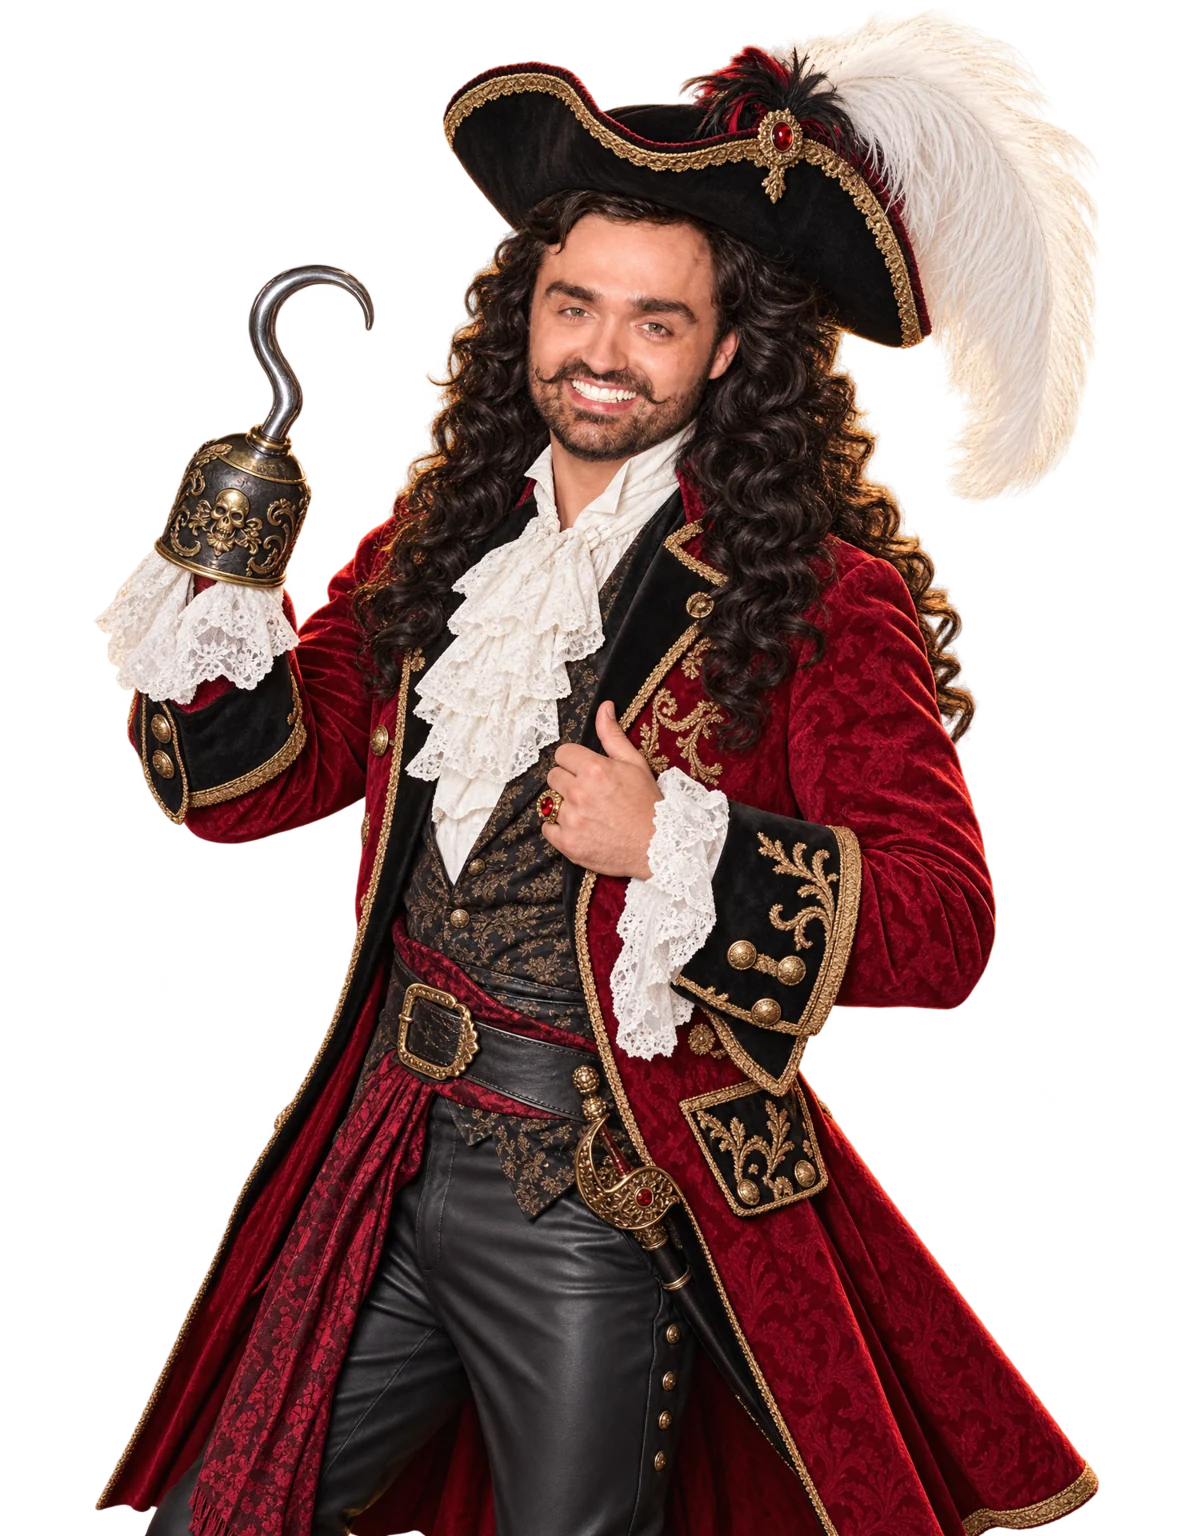
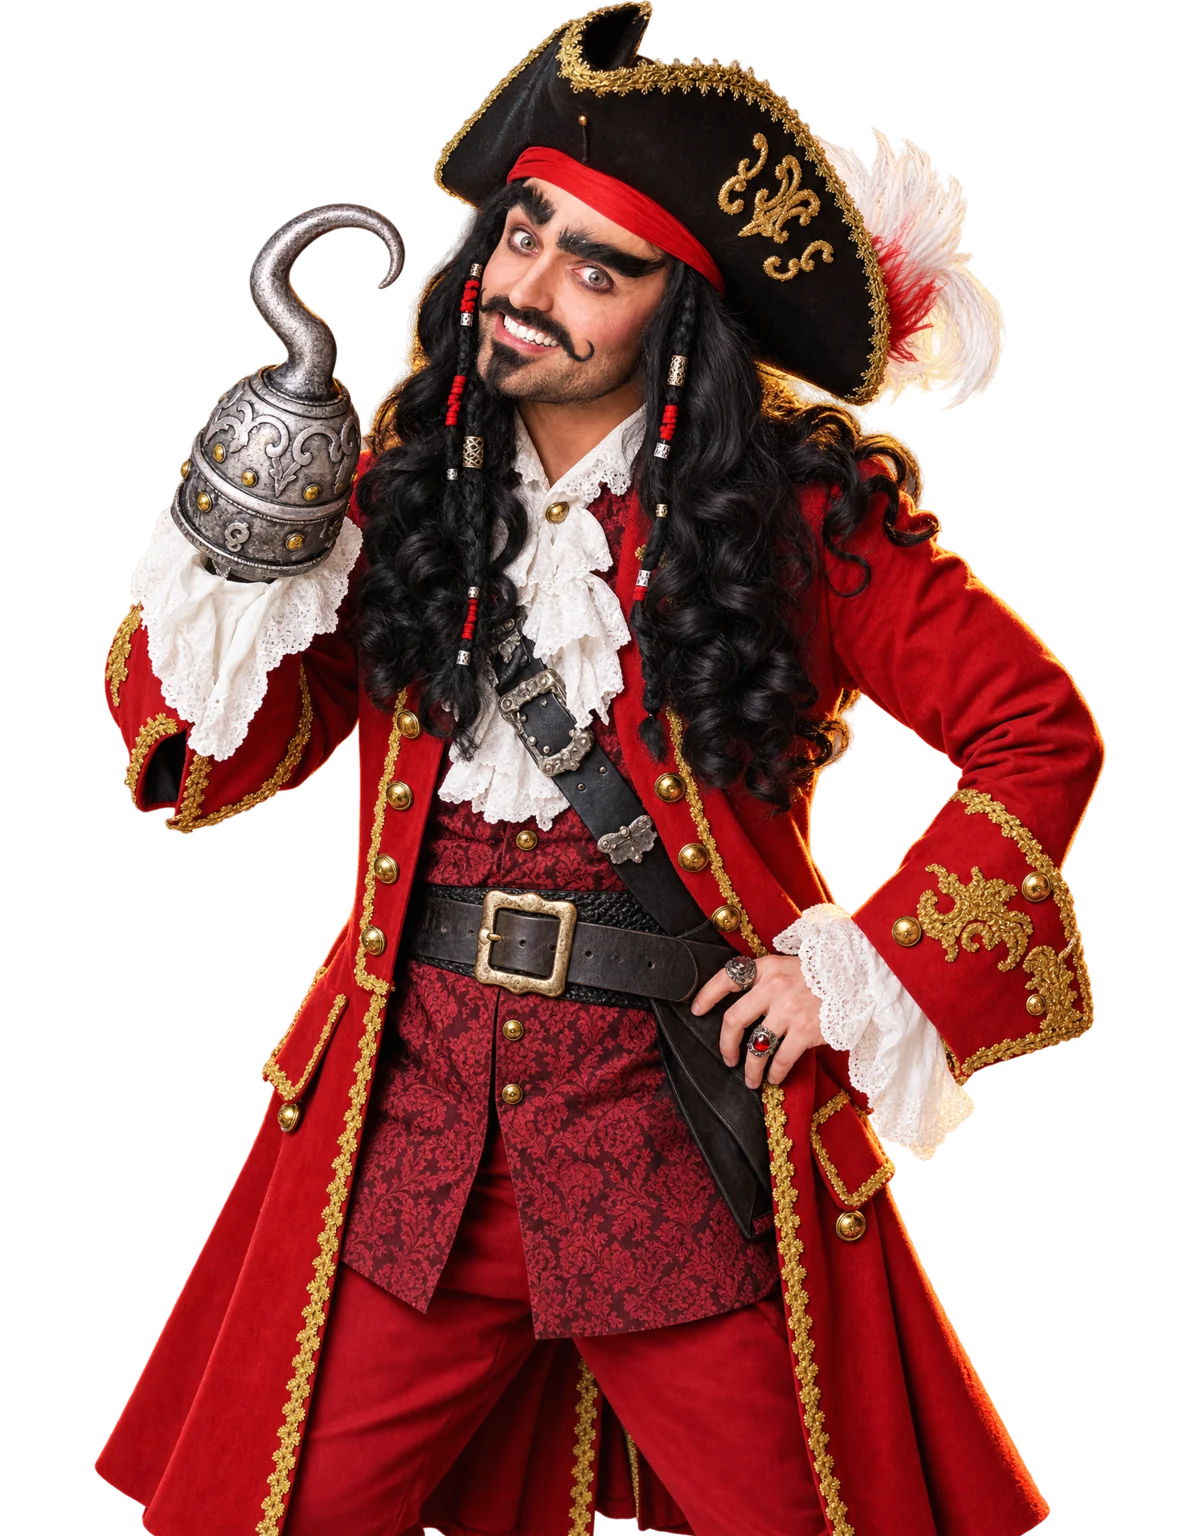
Hero : 8 lames (Grease ajouté), vrai Capitaine Crochet, base en 2 versions à comparer
- Base de l'éventail : ?base=bandeau (défaut, bandeau noir « Le couteau suisse de la scène »)
  ou ?base=couteau (manche de luxe cramoisi et or avec l'inscription gravée)
- Capitaine Crochet refait d'après les vraies photos de scène (tricorne, bandana, tresses, crochet ciselé)
- Rockeur façon Grease ajouté : 8 personnages, Dominic reste le pivot
- « Monsieur Loyal » devient « Maître de cirque »
- Cache noir sous la base : les lames inclinées ne dépassent plus

diff --git a/index.html b/index.html
@@ -154,9 +154,9 @@
         </nav>
     </header>
 
-    <section class="cam-hero">
+    <section class="cam-hero" data-base="bandeau">
         <div class="cam-copy">
-            <p class="cam-kicker">Le couteau suisse de la scène</p>
+            <p class="cam-kicker">L'artiste caméléon</p>
             <h1 class="cam-name"><span>Dominic</span><span>St&#8209;Laurent</span></h1>
             <p class="cam-role">Ce soir : <span class="cam-role-word" aria-live="polite"><span>Animateur</span></span></p>
             <p class="cam-desc">Animateur, chanteur, imitateur, DJ : tout est là! Une préparation chirurgicale, des performances qui décoiffent, et cette touche personnalisée qui fait dire «&nbsp;Comment il savait ça?!&nbsp;»</p>
@@ -168,9 +168,10 @@
                 <span class="cam-hint">Survolez ou touchez un personnage</span>
                 <ol class="cam-dots">
                     <li><button type="button" aria-pressed="false" aria-label="Voir : Capitaine Crochet"></button></li>
-                    <li><button type="button" aria-pressed="false" aria-label="Voir : Monsieur Loyal"></button></li>
+                    <li><button type="button" aria-pressed="false" aria-label="Voir : Maître de cirque"></button></li>
                     <li><button type="button" aria-pressed="false" aria-label="Voir : Crooner"></button></li>
                     <li><button type="button" aria-pressed="true" aria-label="Voir : Animateur"></button></li>
+                    <li><button type="button" aria-pressed="false" aria-label="Voir : Rockeur"></button></li>
                     <li><button type="button" aria-pressed="false" aria-label="Voir : DJ"></button></li>
                     <li><button type="button" aria-pressed="false" aria-label="Voir : Roi du disco"></button></li>
                     <li><button type="button" aria-pressed="false" aria-label="Voir : Personnage loufoque"></button></li>
@@ -178,30 +179,17 @@
             </div>
         </div>
         <div class="cam-stage">
-            <img class="cam-fig" style="--k:-3;--d:3;--o:0;--side:-1" data-role="Capitaine Crochet" width="1200" height="1536" src="images/hero/pirate.webp" alt="Dominic en Capitaine Crochet, crochet levé" draggable="false">
-            <img class="cam-fig" style="--k:-2;--d:2;--o:1;--side:-1" data-role="Monsieur Loyal" width="1200" height="1536" src="images/hero/cirque.webp" alt="Dominic en maître de piste maquillé, redingote rouge et haut-de-forme" draggable="false">
+            <img class="cam-fig" style="--k:-3;--d:3;--o:0;--side:-1" data-role="Capitaine Crochet" width="1200" height="1536" src="images/hero/pirate.webp" alt="Dominic en Capitaine Crochet" draggable="false">
+            <img class="cam-fig" style="--k:-2;--d:2;--o:1;--side:-1" data-role="Maître de cirque" width="1200" height="1536" src="images/hero/cirque.webp" alt="Dominic en maître de cirque maquillé, redingote rouge et haut-de-forme" draggable="false">
             <img class="cam-fig" style="--k:-1;--d:1;--o:2;--side:-1" data-role="Crooner" width="1200" height="1536" src="images/hero/crooner.webp" alt="Dominic en crooner, foulard blanc et micro rétro" draggable="false">
             <img class="cam-fig is-active" style="--k:0;--d:0;--o:3;--side:-1" data-role="Animateur" width="1200" height="1536" src="images/hero/dominic.webp" alt="Dominic St-Laurent, veston bourgogne, micro en main" fetchpriority="high" draggable="false">
-            <img class="cam-fig" style="--k:1;--d:1;--o:4;--side:1" data-role="DJ" width="1200" height="1536" src="images/hero/dj.webp" alt="Dominic en DJ, écouteurs et lunettes fumées" draggable="false">
-            <img class="cam-fig" style="--k:2;--d:2;--o:5;--side:1" data-role="Roi du disco" width="1200" height="1536" src="images/hero/disco.webp" alt="Dominic en chemise dorée disco" draggable="false">
-            <img class="cam-fig" style="--k:3;--d:3;--o:6;--side:1" data-role="Personnage loufoque" width="1200" height="1536" src="images/hero/loufoque.webp" alt="Dominic en personnage loufoque, combinaison argentée rétro" draggable="false">
-            <!-- Le manche : « le couteau suisse de la scène ». Les personnages en sont les lames. -->
-            <svg class="cam-knife" viewBox="0 0 460 100" aria-hidden="true" focusable="false">
-                <defs>
-                    <linearGradient id="kRed" x1="0" y1="0" x2="0" y2="1"><stop offset="0" stop-color="#e2233f"/><stop offset=".55" stop-color="#b5122b"/><stop offset="1" stop-color="#7d0a1c"/></linearGradient>
-                    <linearGradient id="kSteel" x1="0" y1="0" x2="0" y2="1"><stop offset="0" stop-color="#f1f1f1"/><stop offset="1" stop-color="#8c8f94"/></linearGradient>
-                    <radialGradient id="kBrass" cx=".35" cy=".3" r=".8"><stop offset="0" stop-color="#fde68a"/><stop offset="1" stop-color="#a97f1f"/></radialGradient>
-                </defs>
-                <circle cx="18" cy="50" r="13" fill="none" stroke="url(#kSteel)" stroke-width="4"/>
-                <rect x="26" y="6" width="420" height="88" rx="44" fill="url(#kSteel)"/>
-                <rect x="30" y="12" width="412" height="80" rx="40" fill="url(#kRed)"/>
-                <path d="M70 22 H402 a30 30 0 0 1 22 10 H48 a30 30 0 0 1 22 -10z" fill="#fff" opacity=".22"/>
-                <circle cx="72" cy="52" r="7" fill="url(#kBrass)"/><circle cx="400" cy="52" r="7" fill="url(#kBrass)"/>
-                <circle cx="236" cy="52" r="11" fill="url(#kBrass)" stroke="#5c430c" stroke-width="1.5"/>
-                <path d="M120 33 h56 v22 c0 12 -14 20 -28 25 c-14 -5 -28 -13 -28 -25z" fill="#f6f0e2" opacity=".95"/>
-                <text x="148" y="60" text-anchor="middle" font-family="Poppins, sans-serif" font-weight="700" font-size="17" letter-spacing="1" fill="#9b0f25">DSTL</text>
-                <text x="322" y="58" text-anchor="middle" font-family="Poppins, sans-serif" font-weight="600" font-size="11" letter-spacing="3" fill="#fff" opacity=".8">DE LA SCÈNE</text>
-            </svg>
+            <img class="cam-fig" style="--k:1;--d:1;--o:4;--side:1" data-role="Rockeur" width="1200" height="1536" src="images/hero/rockabilly.webp" alt="Dominic en blouson de cuir façon Grease" draggable="false">
+            <img class="cam-fig" style="--k:2;--d:2;--o:5;--side:1" data-role="DJ" width="1200" height="1536" src="images/hero/dj.webp" alt="Dominic en DJ, écouteurs et lunettes fumées" draggable="false">
+            <img class="cam-fig" style="--k:3;--d:3;--o:6;--side:1" data-role="Roi du disco" width="1200" height="1536" src="images/hero/disco.webp" alt="Dominic en chemise dorée disco" draggable="false">
+            <img class="cam-fig" style="--k:4;--d:4;--o:7;--side:1" data-role="Personnage loufoque" width="1200" height="1536" src="images/hero/loufoque.webp" alt="Dominic en personnage loufoque, combinaison argentée rétro" draggable="false">
+            <!-- Base de l'éventail, deux versions à comparer : ?base=bandeau (défaut) ou ?base=couteau -->
+            <img class="cam-knife" src="images/hero/couteau.webp" alt="" width="1400" height="336" aria-hidden="true" draggable="false">
+            <p class="cam-band" aria-hidden="true"><span>Le couteau suisse de la scène</span></p>
         </div>
     </section>
 

diff --git a/css/refonte.css b/css/refonte.css
@@ -128,8 +128,8 @@ header.nav-hidden {
 /* ═════════════ HERO CAMÉLÉON : l'éventail de personnages ═════════════ */
 .cam-hero {
     --fig-h: min(74svh, 46vw);      /* hauteur d'un personnage */
-    --cx: 68%;                      /* centre de l'éventail dans le hero */
-    --spread: 12.5deg;              /* angle entre deux lames voisines */
+    --cx: 65%;                      /* centre de l'éventail dans le hero */
+    --spread: 11deg;                /* angle entre deux lames voisines */
     --knife-h: calc(var(--fig-h) * 0.165); /* hauteur du manche */
     --knife-b: 3.5svh;              /* distance entre le manche et le bas du hero */
     position: relative;
@@ -194,25 +194,75 @@ header.nav-hidden {
     z-index: 20;
 }
 
-/* Le manche du couteau suisse */
-.cam-knife {
+/* Cache noir sous la base : les lames inclinées ne dépassent pas en dessous */
+.cam-stage::after {
+    content: '';
     position: absolute;
-    z-index: 30; /* devant les lames : il cache leur point de rencontre */
+    z-index: 25;
+    left: 0;
+    right: 0;
+    bottom: 0;
+    height: calc(var(--knife-b) + var(--knife-h) / 2);
+    background: #0a0a0a;
+}
+
+/* Base de l'éventail — deux versions (data-base sur .cam-hero) */
+.cam-knife,
+.cam-band {
+    position: absolute;
+    z-index: 30; /* devant les lames : cache leur point de rencontre */
     left: var(--cx);
     bottom: var(--knife-b);
-    width: calc(var(--knife-h) * 4.6);
-    height: var(--knife-h);
-    transform: translateX(-50%) scale(0.92);
+    margin: 0;
+    transform: translateX(-50%) scale(0.94);
     opacity: 0;
     transition: transform 0.9s var(--ease-out), opacity 0.6s ease;
     pointer-events: none;
-    filter: drop-shadow(0 14px 22px rgba(0, 0, 0, 0.65));
 }
 .js-rv .cam-hero.is-in .cam-knife,
-html:not(.js-rv) .cam-knife {
+.js-rv .cam-hero.is-in .cam-band,
+html:not(.js-rv) .cam-knife,
+html:not(.js-rv) .cam-band {
     transform: translateX(-50%);
     opacity: 1;
 }
+/* version « couteau » : manche de luxe (image) */
+.cam-knife {
+    width: calc(var(--fig-h) * 1.05);
+    max-width: 94vw;
+    height: auto;
+    aspect-ratio: 1400 / 336;
+    bottom: calc(var(--knife-b) - var(--knife-h) * 0.3); /* le rivet des lames tombe au milieu du manche */
+    filter: drop-shadow(0 16px 26px rgba(0, 0, 0, 0.75));
+}
+/* version « bandeau » : bande noire, filets dorés, inscription */
+.cam-band {
+    width: calc(var(--fig-h) * 1.75);
+    max-width: 100vw;
+    height: var(--knife-h);
+    display: grid;
+    place-items: center;
+    background: #050505;
+    border-top: 1px solid rgba(212, 175, 55, 0.65);
+    border-bottom: 1px solid rgba(212, 175, 55, 0.65);
+    box-shadow: 0 -18px 30px rgba(5, 5, 5, 0.85);
+    -webkit-mask-image: linear-gradient(to right, transparent, #000 14%, #000 86%, transparent);
+    mask-image: linear-gradient(to right, transparent, #000 14%, #000 86%, transparent);
+}
+.cam-band span {
+    font-family: 'Playfair Display', serif;
+    font-style: italic;
+    font-size: clamp(1rem, calc(var(--knife-h) * 0.34), 2rem);
+    letter-spacing: 0.08em;
+    white-space: nowrap;
+    background: linear-gradient(to right, #bf953f, #fcf6ba, #b38728, #fbf5b7, #aa771c);
+    -webkit-background-clip: text;
+    background-clip: text;
+    -webkit-text-fill-color: transparent;
+}
+.cam-hero[data-base="couteau"] { --knife-b: 7svh; } /* le manche est plus haut que le bandeau : on le remonte */
+.cam-hero[data-base="bandeau"] .cam-knife,
+.cam-hero[data-base="couteau"] .cam-band { display: none; }
 
 /* Voile sombre à gauche : le texte reste lisible quand un personnage passe derrière */
 .cam-hero::before {
@@ -414,7 +464,7 @@ html:not(.js-rv) .cam-knife {
         transition: none;
     }
     .cam-fig, .cam-stage.is-ready .cam-fig { transition: filter 0.2s ease; transition-delay: 0s; }
-    .cam-knife { transition: none; }
+    .cam-knife, .cam-band { transition: none; }
     .credibility-strip.is-marquee .credibility-items { animation: none; }
     .magic-text, .animate-float { animation: none !important; }
 }

diff --git a/js/refonte.js b/js/refonte.js
@@ -100,7 +100,10 @@
         var figs = Array.from(stage.querySelectorAll('.cam-fig'));
         var word = document.querySelector('.cam-role-word');
         var dots = Array.from(document.querySelectorAll('.cam-dots button'));
-        var home = Math.floor(figs.length / 2), current = home, timer = null;
+        var home = Math.max(figs.findIndex(function (f) { return f.classList.contains('is-active'); }), 0), current = home, timer = null;
+        // Version de la base à comparer : ?base=bandeau ou ?base=couteau
+        var base = new URLSearchParams(location.search).get('base'), hero = stage.closest('.cam-hero');
+        if (hero && (base === 'bandeau' || base === 'couteau')) hero.dataset.base = base;
         if (word && word.firstElementChild) word.style.width = word.firstElementChild.offsetWidth + 2 + 'px';
         var spread = parseFloat(getComputedStyle(stage).getPropertyValue('--spread')) || 9;
 
@@ -161,8 +164,7 @@
         // L'éventail s'ouvre une fois les images prêtes
         var pending = figs.filter(function (f) { return !f.complete; }).length;
         function open() {
-            var hero = stage.closest('.cam-hero');
-            if (hero) hero.classList.add('is-in'); // le manche apparaît
+            if (hero) hero.classList.add('is-in'); // la base apparaît
             setTimeout(function () {
                 stage.classList.add('is-open'); // les lames se déplient une à une
                 setTimeout(function () { stage.classList.add('is-ready'); start(); }, reduce ? 0 : 1900);
